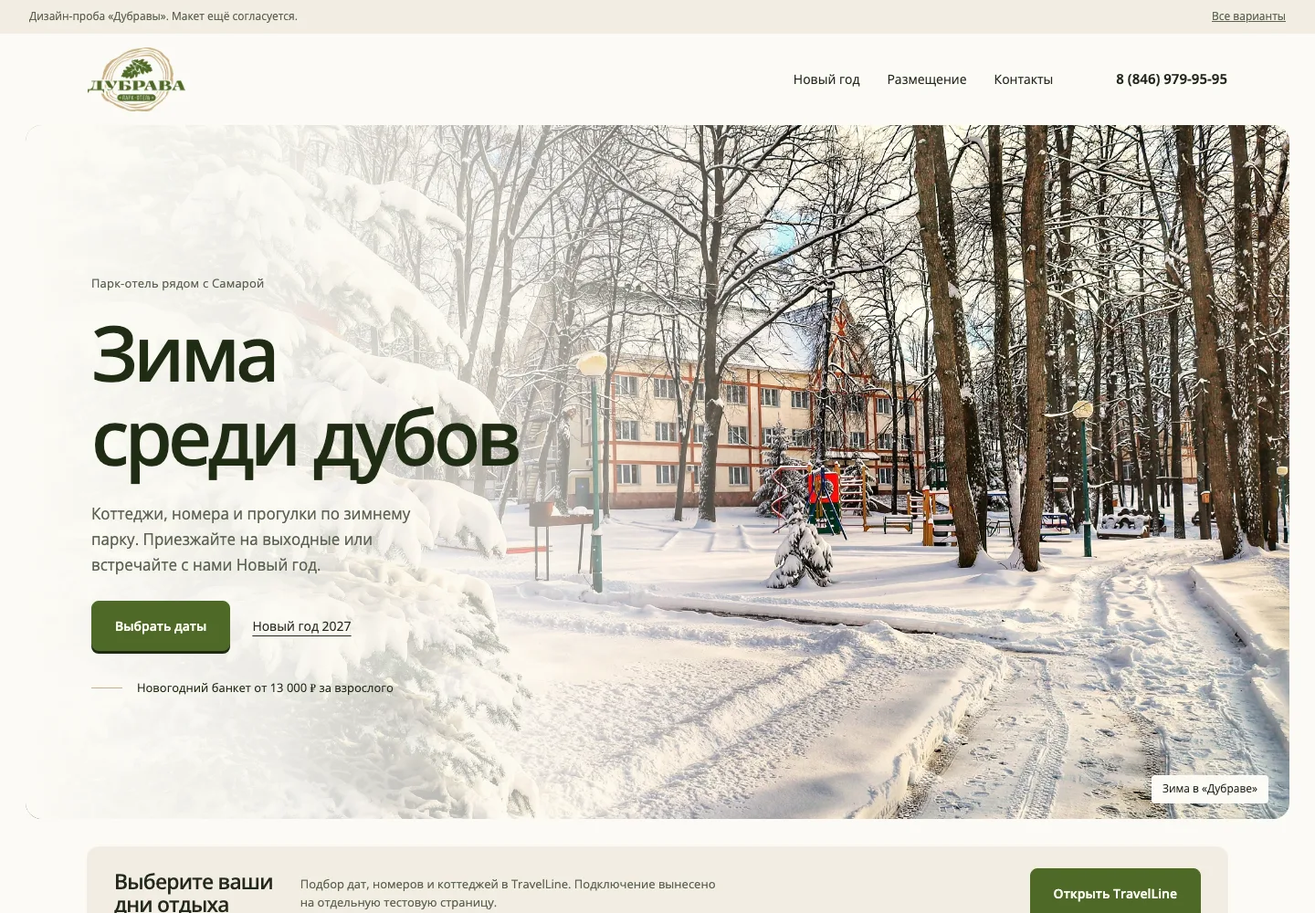
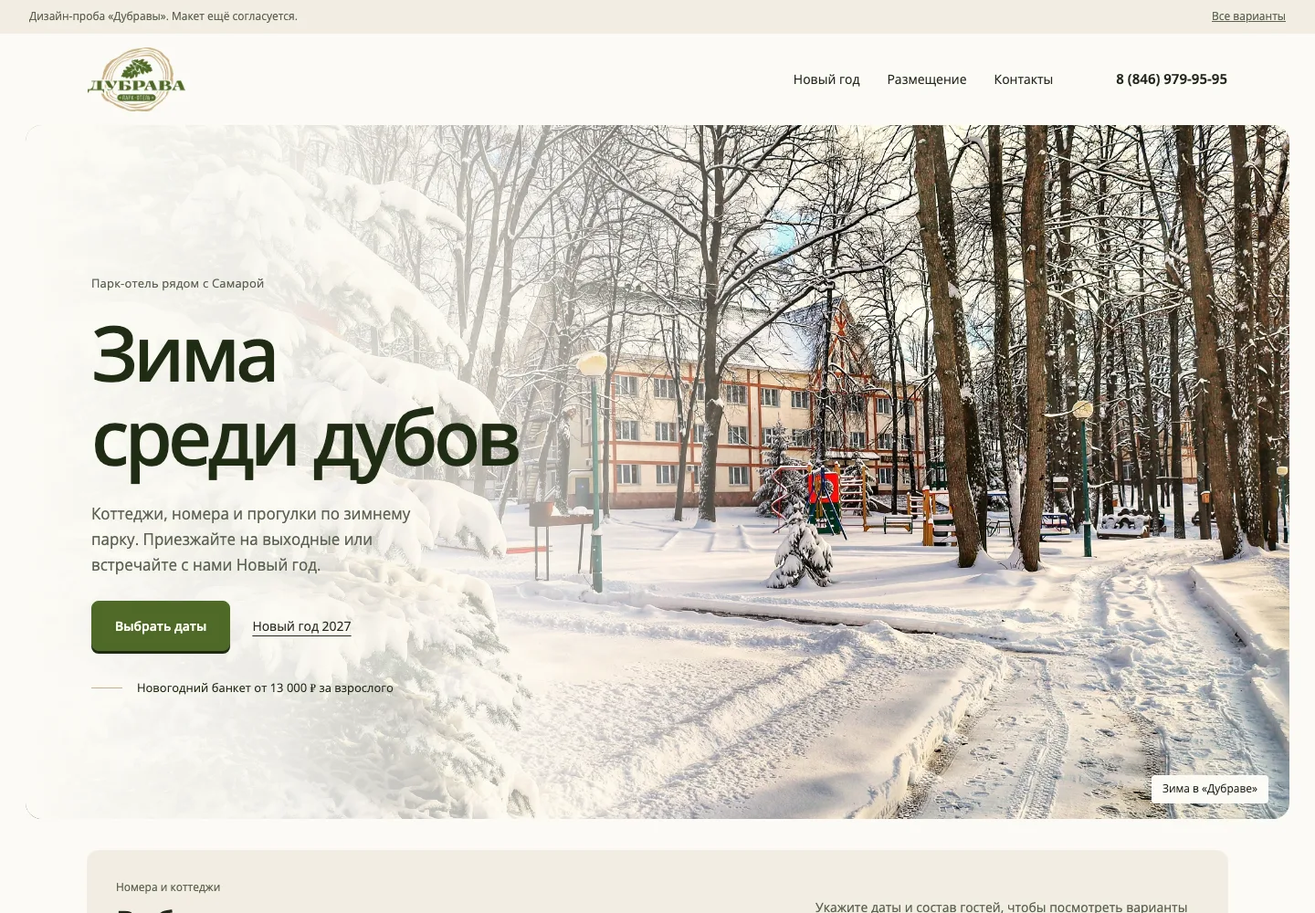
Обновление 10.11 12:59 МСК

Changed region(s): [[0.0625, 0.961, 0.5312, 1.0], [0.625, 0.93, 0.9375, 1.0]]

diff --git a/panorama.html b/panorama.html
@@ -1,1 +1,12 @@
-<!doctype html><html lang="ru"><head><meta charset="utf-8"><meta name="viewport" content="width=device-width, initial-scale=1"><meta name="robots" content="noindex, nofollow, noarchive"><title>Дубрава · Панорама · прототип</title><link rel="stylesheet" href="style.css"></head><body class="panorama"><div class="draft"><span>Дизайн-проба «Дубравы». Макет ещё согласуется.</span><a href="index.html">Все варианты</a></div><header class="header wrap"><a href="index.html" aria-label="Выбор оформления"><img class="logo" src="assets/logo.png" alt="Парк-отель Дубрава"></a><nav class="nav"><a href="#new-year">Новый год</a><a href="#stay">Размещение</a><a href="#contact">Контакты</a></nav><a class="tel" href="tel:+78469799595">8 (846) 979-95-95</a></header><main><section class="hero"><img class="hero-photo" src="assets/winter-cover-warm-v1.webp" alt="Заснеженная ель, дорожка и отель Дубрава среди зимних деревьев" fetchpriority="high"><div class="hero-copy"><div class="place">Парк-отель рядом с Самарой</div><h1>Зима<br>среди дубов</h1><p>Коттеджи, номера и прогулки по зимнему парку. Приезжайте на выходные или встречайте с нами Новый год.</p><div class="actions"><a class="button" href="booking/">Выбрать даты</a><a class="link" href="#new-year">Новый год 2027</a></div><a class="season-link" href="#new-year">Новогодний банкет от 13 000 ₽ за взрослого</a></div><span class="photo-label">Зима в «Дубраве»</span></section><section class="booking-strip"><h2>Выберите ваши<br>дни отдыха</h2><p>Подбор дат, номеров и коттеджей в TravelLine. Подключение вынесено на отдельную тестовую страницу.</p><a class="button" href="booking/">Открыть TravelLine</a></section><section id="new-year" class="ny"><div class="ny-date">Новогодняя ночь: 31 декабря 2026 · Заезд: 31 декабря - 2 января</div><div class="ny-title"><h2 class="section-title">Новогодний<br>экспресс 2027</h2><p>Выберите праздничный банкет или оставайтесь с нами на новогодний заезд.</p></div><div class="offers"><article class="offer"><p>Банкет без проживания</p><h3>Зал «Усадьба»</h3><div class="price">13 000 ₽</div><div class="unit">за взрослого · 31 декабря</div><a class="link" href="https://vk.me/parkhoteldubrava" target="_blank" rel="noopener">Обсудить банкет</a></article><article class="offer"><p>Банкет без проживания</p><h3>Основной зал</h3><div class="price">18 000 ₽</div><div class="unit">за взрослого · 31 декабря</div><a class="link" href="https://vk.me/parkhoteldubrava" target="_blank" rel="noopener">Обсудить банкет</a></article><article class="offer"><p>Заезд с проживанием</p><h3>С 31 декабря по 2 января</h3><div class="price">35 000 ₽</div><div class="unit">за взрослого · за весь заезд</div><a class="link" href="https://vk.me/parkhoteldubrava" target="_blank" rel="noopener">Уточнить условия заезда</a></article></div><p class="ny-note">Здесь показана подача предложений. Подробная программа, детские условия, меню и январские каникулы будут добавлены после сверки.</p></section><section class="stay" id="stay"><div class="stay-top"><h2 class="section-title">Загляните<br>в «Дубраву»</h2><p>Настоящие фотографии территории и интерьеров из архива отеля. Категории размещения подпишем после окончательного отбора.</p></div><div class="stay-photos"><figure><img src="assets/winter-park-warm-v1.webp" alt="Зимняя территория Дубравы" loading="lazy"><figcaption>Зимний парк</figcaption></figure><figure><img src="assets/interior-warm-v1.webp" alt="Гостиная коттеджа" loading="lazy"><figcaption>Внутри коттеджа</figcaption></figure><figure><img src="assets/table-warm-v1.webp" alt="Обеденный стол в коттедже Дубравы" loading="lazy"><figcaption>Собраться вместе</figcaption></figure></div></section><details class="structure"><summary>Согласованная структура будущего лендинга</summary><p>Это общий порядок разделов. Полное наполнение и вёрстка остальных экранов ещё согласуются.</p><ol><li>Обложка отеля</li><li>Встроенное бронирование TravelLine</li><li>Новогодний экспресс 2027</li><li>Программа праздников, меню и каникулы</li><li>Номера и коттеджи</li><li>Отдых на территории</li><li>Ресторан и мероприятия</li><li>Фотографии отеля</li><li>Вопросы перед поездкой</li><li>Контакты и маршрут</li></ol></details></main><footer id="contact" class="footer"><p>Прототип оформления. Новогодние цены подтверждены 10.11.2026. Домен отеля пока не меняется.</p><a href="tel:+78469799595">8 (846) 979-95-95</a><a href="https://vk.ru/parkhoteldubrava" target="_blank" rel="noopener">ВКонтакте</a><a href="index.html">Сравнить варианты</a></footer></body></html>
+<!doctype html><html lang="ru"><head><meta charset="utf-8"><meta name="viewport" content="width=device-width, initial-scale=1"><meta name="robots" content="noindex, nofollow, noarchive"><title>Дубрава · Панорама · прототип</title><link rel="stylesheet" href="style.css"></head><body class="panorama"><div class="draft"><span>Дизайн-проба «Дубравы». Макет ещё согласуется.</span><a href="index.html">Все варианты</a></div><header class="header wrap"><a href="index.html" aria-label="Выбор оформления"><img class="logo" src="assets/logo.png" alt="Парк-отель Дубрава"></a><nav class="nav"><a href="#new-year">Новый год</a><a href="#stay">Размещение</a><a href="#contact">Контакты</a></nav><a class="tel" href="tel:+78469799595">8 (846) 979-95-95</a></header><main><section class="hero"><img class="hero-photo" src="assets/winter-cover-warm-v1.webp" alt="Заснеженная ель, дорожка и отель Дубрава среди зимних деревьев" fetchpriority="high"><div class="hero-copy"><div class="place">Парк-отель рядом с Самарой</div><h1>Зима<br>среди дубов</h1><p>Коттеджи, номера и прогулки по зимнему парку. Приезжайте на выходные или встречайте с нами Новый год.</p><div class="actions"><a class="button" href="#booking">Выбрать даты</a><a class="link" href="#new-year">Новый год 2027</a></div><a class="season-link" href="#new-year">Новогодний банкет от 13 000 ₽ за взрослого</a></div><span class="photo-label">Зима в «Дубраве»</span></section><section id="booking" class="booking-section" aria-labelledby="booking-title">
+  <div class="booking-heading">
+    <div><p class="booking-eyebrow">Номера и коттеджи</p><h2 id="booking-title">Выберите даты отдыха</h2></div>
+    <p>Укажите даты и состав гостей, чтобы посмотреть варианты размещения и условия проживания.</p>
+  </div>
+  <div class="booking-widget">
+    <div id="tl-search-form" aria-label="Поиск проживания в парк-отеле Дубрава"></div>
+    <noscript><p>Для поиска дат включите JavaScript или позвоните нам: <a href="tel:+78469799595">8 (846) 979-95-95</a>.</p></noscript>
+  </div>
+  <div class="booking-bottom"><p>Поможем выбрать номер или коттедж: <a href="tel:+78469799595">8 (846) 979-95-95</a></p><a href="booking/" class="link">Открыть полную форму бронирования</a></div>
+</section>
+<section id="new-year" class="ny"><div class="ny-date">Новогодняя ночь: 31 декабря 2026 · Заезд: 31 декабря - 2 января</div><div class="ny-title"><h2 class="section-title">Новогодний<br>экспресс 2027</h2><p>Выберите праздничный банкет или оставайтесь с нами на новогодний заезд.</p></div><div class="offers"><article class="offer"><p>Банкет без проживания</p><h3>Зал «Усадьба»</h3><div class="price">13 000 ₽</div><div class="unit">за взрослого · 31 декабря</div><a class="link" href="https://vk.me/parkhoteldubrava" target="_blank" rel="noopener">Обсудить банкет</a></article><article class="offer"><p>Банкет без проживания</p><h3>Основной зал</h3><div class="price">18 000 ₽</div><div class="unit">за взрослого · 31 декабря</div><a class="link" href="https://vk.me/parkhoteldubrava" target="_blank" rel="noopener">Обсудить банкет</a></article><article class="offer"><p>Заезд с проживанием</p><h3>С 31 декабря по 2 января</h3><div class="price">35 000 ₽</div><div class="unit">за взрослого · за весь заезд</div><a class="link" href="https://vk.me/parkhoteldubrava" target="_blank" rel="noopener">Уточнить условия заезда</a></article></div><p class="ny-note">Здесь показана подача предложений. Подробная программа, детские условия, меню и январские каникулы будут добавлены после сверки.</p></section><section class="stay" id="stay"><div class="stay-top"><h2 class="section-title">Загляните<br>в «Дубраву»</h2><p>Настоящие фотографии территории и интерьеров из архива отеля. Категории размещения подпишем после окончательного отбора.</p></div><div class="stay-photos"><figure><img src="assets/winter-park-warm-v1.webp" alt="Зимняя территория Дубравы" loading="lazy"><figcaption>Зимний парк</figcaption></figure><figure><img src="assets/interior-warm-v1.webp" alt="Гостиная коттеджа" loading="lazy"><figcaption>Внутри коттеджа</figcaption></figure><figure><img src="assets/table-warm-v1.webp" alt="Обеденный стол в коттедже Дубравы" loading="lazy"><figcaption>Собраться вместе</figcaption></figure></div></section><details class="structure"><summary>Согласованная структура будущего лендинга</summary><p>Это общий порядок разделов. Полное наполнение и вёрстка остальных экранов ещё согласуются.</p><ol><li>Обложка отеля</li><li>Встроенное бронирование TravelLine</li><li>Новогодний экспресс 2027</li><li>Программа праздников, меню и каникулы</li><li>Номера и коттеджи</li><li>Территория отеля и карта территории</li><li>Русская баня, хамам и сауна</li><li>Ресторан и меню ресторана</li><li>Фотографии отеля</li><li>Вопросы перед поездкой</li><li>Как добраться: карта проезда, маршрут и контакты</li></ol></details></main><footer id="contact" class="footer"><p>Прототип оформления. Новогодние цены подтверждены 10.11.2026. Домен отеля пока не меняется.</p><a href="tel:+78469799595">8 (846) 979-95-95</a><a href="https://vk.ru/parkhoteldubrava" target="_blank" rel="noopener">ВКонтакте</a><a href="index.html">Сравнить варианты</a></footer><script src="booking/search.js"></script></body></html>

diff --git a/photo-story.html b/photo-story.html
@@ -1,1 +1,1 @@
-<!doctype html><html lang="ru"><head><meta charset="utf-8"><meta name="viewport" content="width=device-width, initial-scale=1"><meta name="robots" content="noindex, nofollow, noarchive"><title>Дубрава · Фотоистория · прототип</title><link rel="stylesheet" href="style.css"></head><body class="photo-story"><div class="draft"><span>Дизайн-проба «Дубравы». Макет ещё согласуется.</span><a href="index.html">Все варианты</a></div><header class="header wrap"><a href="index.html" aria-label="Выбор оформления"><img class="logo" src="assets/logo.png" alt="Парк-отель Дубрава"></a><nav class="nav"><a href="#new-year">Новый год</a><a href="#stay">Размещение</a><a href="#contact">Контакты</a></nav><a class="tel" href="tel:+78469799595">8 (846) 979-95-95</a></header><main><section class="hero"><div class="hero-copy"><div class="place">Парк-отель рядом с Самарой</div><h1>Зима<br>среди дубов</h1><p>Коттеджи, номера и прогулки по зимнему парку. Приезжайте на выходные или встречайте с нами Новый год.</p><div class="actions"><a class="button" href="booking/">Выбрать даты</a><a class="link" href="#new-year">Новый год 2027</a></div><a class="season-link" href="#new-year">Новогодний банкет от 13 000 ₽ за взрослого</a></div><figure class="main-shot"><img src="assets/winter-house-warm-v1.webp" alt="Коттедж Дубравы среди заснеженных деревьев" fetchpriority="high"><figcaption class="photo-label">Остаться на выходные</figcaption></figure><figure class="small-shot"><img src="assets/interior-warm-v1.webp" alt="Интерьер коттеджа Дубравы"></figure><figure class="small-shot"><img src="assets/winter-park-warm-v1.webp" alt="Деревья и коттеджи зимней Дубравы"></figure></section><section class="booking-strip"><h2>Выберите ваши<br>дни отдыха</h2><p>Подбор дат, номеров и коттеджей в TravelLine. Подключение вынесено на отдельную тестовую страницу.</p><a class="button" href="booking/">Открыть TravelLine</a></section><section id="new-year" class="ny"><div class="ny-date">Новогодняя ночь: 31 декабря 2026 · Заезд: 31 декабря - 2 января</div><div class="ny-title"><h2 class="section-title">Новогодний<br>экспресс 2027</h2><p>Выберите праздничный банкет или оставайтесь с нами на новогодний заезд.</p></div><div class="offers"><article class="offer"><p>Банкет без проживания</p><h3>Зал «Усадьба»</h3><div class="price">13 000 ₽</div><div class="unit">за взрослого · 31 декабря</div><a class="link" href="https://vk.me/parkhoteldubrava" target="_blank" rel="noopener">Обсудить банкет</a></article><article class="offer"><p>Банкет без проживания</p><h3>Основной зал</h3><div class="price">18 000 ₽</div><div class="unit">за взрослого · 31 декабря</div><a class="link" href="https://vk.me/parkhoteldubrava" target="_blank" rel="noopener">Обсудить банкет</a></article><article class="offer"><p>Заезд с проживанием</p><h3>С 31 декабря по 2 января</h3><div class="price">35 000 ₽</div><div class="unit">за взрослого · за весь заезд</div><a class="link" href="https://vk.me/parkhoteldubrava" target="_blank" rel="noopener">Уточнить условия заезда</a></article></div><p class="ny-note">Здесь показана подача предложений. Подробная программа, детские условия, меню и январские каникулы будут добавлены после сверки.</p></section><section class="stay" id="stay"><div class="stay-top"><h2 class="section-title">Загляните<br>в «Дубраву»</h2><p>Настоящие фотографии территории и интерьеров из архива отеля. Категории размещения подпишем после окончательного отбора.</p></div><div class="stay-photos"><figure><img src="assets/winter-park-warm-v1.webp" alt="Зимняя территория Дубравы" loading="lazy"><figcaption>Зимний парк</figcaption></figure><figure><img src="assets/interior-warm-v1.webp" alt="Гостиная коттеджа" loading="lazy"><figcaption>Внутри коттеджа</figcaption></figure><figure><img src="assets/table-warm-v1.webp" alt="Обеденный стол в коттедже Дубравы" loading="lazy"><figcaption>Собраться вместе</figcaption></figure></div></section><details class="structure"><summary>Согласованная структура будущего лендинга</summary><p>Это общий порядок разделов. Полное наполнение и вёрстка остальных экранов ещё согласуются.</p><ol><li>Обложка отеля</li><li>Встроенное бронирование TravelLine</li><li>Новогодний экспресс 2027</li><li>Программа праздников, меню и каникулы</li><li>Номера и коттеджи</li><li>Отдых на территории</li><li>Ресторан и мероприятия</li><li>Фотографии отеля</li><li>Вопросы перед поездкой</li><li>Контакты и маршрут</li></ol></details></main><footer id="contact" class="footer"><p>Прототип оформления. Новогодние цены подтверждены 10.11.2026. Домен отеля пока не меняется.</p><a href="tel:+78469799595">8 (846) 979-95-95</a><a href="https://vk.ru/parkhoteldubrava" target="_blank" rel="noopener">ВКонтакте</a><a href="index.html">Сравнить варианты</a></footer></body></html>
+<!doctype html><html lang="ru"><head><meta charset="utf-8"><meta name="viewport" content="width=device-width, initial-scale=1"><meta name="robots" content="noindex, nofollow, noarchive"><title>Дубрава · Фотоистория · прототип</title><link rel="stylesheet" href="style.css"></head><body class="photo-story"><div class="draft"><span>Дизайн-проба «Дубравы». Макет ещё согласуется.</span><a href="index.html">Все варианты</a></div><header class="header wrap"><a href="index.html" aria-label="Выбор оформления"><img class="logo" src="assets/logo.png" alt="Парк-отель Дубрава"></a><nav class="nav"><a href="#new-year">Новый год</a><a href="#stay">Размещение</a><a href="#contact">Контакты</a></nav><a class="tel" href="tel:+78469799595">8 (846) 979-95-95</a></header><main><section class="hero"><div class="hero-copy"><div class="place">Парк-отель рядом с Самарой</div><h1>Зима<br>среди дубов</h1><p>Коттеджи, номера и прогулки по зимнему парку. Приезжайте на выходные или встречайте с нами Новый год.</p><div class="actions"><a class="button" href="booking/">Выбрать даты</a><a class="link" href="#new-year">Новый год 2027</a></div><a class="season-link" href="#new-year">Новогодний банкет от 13 000 ₽ за взрослого</a></div><figure class="main-shot"><img src="assets/winter-house-warm-v1.webp" alt="Коттедж Дубравы среди заснеженных деревьев" fetchpriority="high"><figcaption class="photo-label">Остаться на выходные</figcaption></figure><figure class="small-shot"><img src="assets/interior-warm-v1.webp" alt="Интерьер коттеджа Дубравы"></figure><figure class="small-shot"><img src="assets/winter-park-warm-v1.webp" alt="Деревья и коттеджи зимней Дубравы"></figure></section><section class="booking-strip"><h2>Выберите ваши<br>дни отдыха</h2><p>Подбор дат, номеров и коттеджей в TravelLine. Подключение вынесено на отдельную тестовую страницу.</p><a class="button" href="booking/">Открыть TravelLine</a></section><section id="new-year" class="ny"><div class="ny-date">Новогодняя ночь: 31 декабря 2026 · Заезд: 31 декабря - 2 января</div><div class="ny-title"><h2 class="section-title">Новогодний<br>экспресс 2027</h2><p>Выберите праздничный банкет или оставайтесь с нами на новогодний заезд.</p></div><div class="offers"><article class="offer"><p>Банкет без проживания</p><h3>Зал «Усадьба»</h3><div class="price">13 000 ₽</div><div class="unit">за взрослого · 31 декабря</div><a class="link" href="https://vk.me/parkhoteldubrava" target="_blank" rel="noopener">Обсудить банкет</a></article><article class="offer"><p>Банкет без проживания</p><h3>Основной зал</h3><div class="price">18 000 ₽</div><div class="unit">за взрослого · 31 декабря</div><a class="link" href="https://vk.me/parkhoteldubrava" target="_blank" rel="noopener">Обсудить банкет</a></article><article class="offer"><p>Заезд с проживанием</p><h3>С 31 декабря по 2 января</h3><div class="price">35 000 ₽</div><div class="unit">за взрослого · за весь заезд</div><a class="link" href="https://vk.me/parkhoteldubrava" target="_blank" rel="noopener">Уточнить условия заезда</a></article></div><p class="ny-note">Здесь показана подача предложений. Подробная программа, детские условия, меню и январские каникулы будут добавлены после сверки.</p></section><section class="stay" id="stay"><div class="stay-top"><h2 class="section-title">Загляните<br>в «Дубраву»</h2><p>Настоящие фотографии территории и интерьеров из архива отеля. Категории размещения подпишем после окончательного отбора.</p></div><div class="stay-photos"><figure><img src="assets/winter-park-warm-v1.webp" alt="Зимняя территория Дубравы" loading="lazy"><figcaption>Зимний парк</figcaption></figure><figure><img src="assets/interior-warm-v1.webp" alt="Гостиная коттеджа" loading="lazy"><figcaption>Внутри коттеджа</figcaption></figure><figure><img src="assets/table-warm-v1.webp" alt="Обеденный стол в коттедже Дубравы" loading="lazy"><figcaption>Собраться вместе</figcaption></figure></div></section><details class="structure"><summary>Согласованная структура будущего лендинга</summary><p>Это общий порядок разделов. Полное наполнение и вёрстка остальных экранов ещё согласуются.</p><ol><li>Обложка отеля</li><li>Встроенное бронирование TravelLine</li><li>Новогодний экспресс 2027</li><li>Программа праздников, меню и каникулы</li><li>Номера и коттеджи</li><li>Территория отеля и карта территории</li><li>Русская баня, хамам и сауна</li><li>Ресторан и меню ресторана</li><li>Фотографии отеля</li><li>Вопросы перед поездкой</li><li>Как добраться: карта проезда, маршрут и контакты</li></ol></details></main><footer id="contact" class="footer"><p>Прототип оформления. Новогодние цены подтверждены 10.11.2026. Домен отеля пока не меняется.</p><a href="tel:+78469799595">8 (846) 979-95-95</a><a href="https://vk.ru/parkhoteldubrava" target="_blank" rel="noopener">ВКонтакте</a><a href="index.html">Сравнить варианты</a></footer></body></html>

diff --git a/editorial.html b/editorial.html
@@ -1,1 +1,1 @@
-<!doctype html><html lang="ru"><head><meta charset="utf-8"><meta name="viewport" content="width=device-width, initial-scale=1"><meta name="robots" content="noindex, nofollow, noarchive"><title>Дубрава · Журнальная композиция · прототип</title><link rel="stylesheet" href="style.css"></head><body class="editorial"><div class="draft"><span>Дизайн-проба «Дубравы». Макет ещё согласуется.</span><a href="index.html">Все варианты</a></div><header class="header wrap"><a href="index.html" aria-label="Выбор оформления"><img class="logo" src="assets/logo.png" alt="Парк-отель Дубрава"></a><nav class="nav"><a href="#new-year">Новый год</a><a href="#stay">Размещение</a><a href="#contact">Контакты</a></nav><a class="tel" href="tel:+78469799595">8 (846) 979-95-95</a></header><main><section class="hero"><div class="hotel-word" aria-hidden="true">Дубрава</div><div class="spread"><figure class="main-shot"><img src="assets/winter-house-warm-v1.webp" alt="Настоящий зимний коттедж Дубравы" fetchpriority="high"></figure><div class="hero-copy"><div class="place">Парк-отель рядом с Самарой</div><h1>Зима<br>среди дубов</h1><p>Коттеджи, номера и прогулки по зимнему парку. Приезжайте на выходные или встречайте с нами Новый год.</p><div class="actions"><a class="button" href="booking/">Выбрать даты</a><a class="link" href="#new-year">Новый год 2027</a></div><a class="season-link" href="#new-year">Новогодний банкет от 13 000 ₽ за взрослого</a></div><figure class="detail-shot"><img src="assets/winter-park-warm-v1.webp" alt="Солнце между деревьями зимнего парка"><figcaption>Зимние дни<br>в «Дубраве»</figcaption></figure></div></section><section class="booking-strip"><h2>Выберите ваши<br>дни отдыха</h2><p>Подбор дат, номеров и коттеджей в TravelLine. Подключение вынесено на отдельную тестовую страницу.</p><a class="button" href="booking/">Открыть TravelLine</a></section><section id="new-year" class="ny"><div class="ny-date">Новогодняя ночь: 31 декабря 2026 · Заезд: 31 декабря - 2 января</div><div class="ny-title"><h2 class="section-title">Новогодний<br>экспресс 2027</h2><p>Выберите праздничный банкет или оставайтесь с нами на новогодний заезд.</p></div><div class="offers"><article class="offer"><p>Банкет без проживания</p><h3>Зал «Усадьба»</h3><div class="price">13 000 ₽</div><div class="unit">за взрослого · 31 декабря</div><a class="link" href="https://vk.me/parkhoteldubrava" target="_blank" rel="noopener">Обсудить банкет</a></article><article class="offer"><p>Банкет без проживания</p><h3>Основной зал</h3><div class="price">18 000 ₽</div><div class="unit">за взрослого · 31 декабря</div><a class="link" href="https://vk.me/parkhoteldubrava" target="_blank" rel="noopener">Обсудить банкет</a></article><article class="offer"><p>Заезд с проживанием</p><h3>С 31 декабря по 2 января</h3><div class="price">35 000 ₽</div><div class="unit">за взрослого · за весь заезд</div><a class="link" href="https://vk.me/parkhoteldubrava" target="_blank" rel="noopener">Уточнить условия заезда</a></article></div><p class="ny-note">Здесь показана подача предложений. Подробная программа, детские условия, меню и январские каникулы будут добавлены после сверки.</p></section><section class="stay" id="stay"><div class="stay-top"><h2 class="section-title">Загляните<br>в «Дубраву»</h2><p>Настоящие фотографии территории и интерьеров из архива отеля. Категории размещения подпишем после окончательного отбора.</p></div><div class="stay-photos"><figure><img src="assets/winter-park-warm-v1.webp" alt="Зимняя территория Дубравы" loading="lazy"><figcaption>Зимний парк</figcaption></figure><figure><img src="assets/interior-warm-v1.webp" alt="Гостиная коттеджа" loading="lazy"><figcaption>Внутри коттеджа</figcaption></figure><figure><img src="assets/table-warm-v1.webp" alt="Обеденный стол в коттедже Дубравы" loading="lazy"><figcaption>Собраться вместе</figcaption></figure></div></section><details class="structure"><summary>Согласованная структура будущего лендинга</summary><p>Это общий порядок разделов. Полное наполнение и вёрстка остальных экранов ещё согласуются.</p><ol><li>Обложка отеля</li><li>Встроенное бронирование TravelLine</li><li>Новогодний экспресс 2027</li><li>Программа праздников, меню и каникулы</li><li>Номера и коттеджи</li><li>Отдых на территории</li><li>Ресторан и мероприятия</li><li>Фотографии отеля</li><li>Вопросы перед поездкой</li><li>Контакты и маршрут</li></ol></details></main><footer id="contact" class="footer"><p>Прототип оформления. Новогодние цены подтверждены 10.11.2026. Домен отеля пока не меняется.</p><a href="tel:+78469799595">8 (846) 979-95-95</a><a href="https://vk.ru/parkhoteldubrava" target="_blank" rel="noopener">ВКонтакте</a><a href="index.html">Сравнить варианты</a></footer></body></html>
+<!doctype html><html lang="ru"><head><meta charset="utf-8"><meta name="viewport" content="width=device-width, initial-scale=1"><meta name="robots" content="noindex, nofollow, noarchive"><title>Дубрава · Журнальная композиция · прототип</title><link rel="stylesheet" href="style.css"></head><body class="editorial"><div class="draft"><span>Дизайн-проба «Дубравы». Макет ещё согласуется.</span><a href="index.html">Все варианты</a></div><header class="header wrap"><a href="index.html" aria-label="Выбор оформления"><img class="logo" src="assets/logo.png" alt="Парк-отель Дубрава"></a><nav class="nav"><a href="#new-year">Новый год</a><a href="#stay">Размещение</a><a href="#contact">Контакты</a></nav><a class="tel" href="tel:+78469799595">8 (846) 979-95-95</a></header><main><section class="hero"><div class="hotel-word" aria-hidden="true">Дубрава</div><div class="spread"><figure class="main-shot"><img src="assets/winter-house-warm-v1.webp" alt="Настоящий зимний коттедж Дубравы" fetchpriority="high"></figure><div class="hero-copy"><div class="place">Парк-отель рядом с Самарой</div><h1>Зима<br>среди дубов</h1><p>Коттеджи, номера и прогулки по зимнему парку. Приезжайте на выходные или встречайте с нами Новый год.</p><div class="actions"><a class="button" href="booking/">Выбрать даты</a><a class="link" href="#new-year">Новый год 2027</a></div><a class="season-link" href="#new-year">Новогодний банкет от 13 000 ₽ за взрослого</a></div><figure class="detail-shot"><img src="assets/winter-park-warm-v1.webp" alt="Солнце между деревьями зимнего парка"><figcaption>Зимние дни<br>в «Дубраве»</figcaption></figure></div></section><section class="booking-strip"><h2>Выберите ваши<br>дни отдыха</h2><p>Подбор дат, номеров и коттеджей в TravelLine. Подключение вынесено на отдельную тестовую страницу.</p><a class="button" href="booking/">Открыть TravelLine</a></section><section id="new-year" class="ny"><div class="ny-date">Новогодняя ночь: 31 декабря 2026 · Заезд: 31 декабря - 2 января</div><div class="ny-title"><h2 class="section-title">Новогодний<br>экспресс 2027</h2><p>Выберите праздничный банкет или оставайтесь с нами на новогодний заезд.</p></div><div class="offers"><article class="offer"><p>Банкет без проживания</p><h3>Зал «Усадьба»</h3><div class="price">13 000 ₽</div><div class="unit">за взрослого · 31 декабря</div><a class="link" href="https://vk.me/parkhoteldubrava" target="_blank" rel="noopener">Обсудить банкет</a></article><article class="offer"><p>Банкет без проживания</p><h3>Основной зал</h3><div class="price">18 000 ₽</div><div class="unit">за взрослого · 31 декабря</div><a class="link" href="https://vk.me/parkhoteldubrava" target="_blank" rel="noopener">Обсудить банкет</a></article><article class="offer"><p>Заезд с проживанием</p><h3>С 31 декабря по 2 января</h3><div class="price">35 000 ₽</div><div class="unit">за взрослого · за весь заезд</div><a class="link" href="https://vk.me/parkhoteldubrava" target="_blank" rel="noopener">Уточнить условия заезда</a></article></div><p class="ny-note">Здесь показана подача предложений. Подробная программа, детские условия, меню и январские каникулы будут добавлены после сверки.</p></section><section class="stay" id="stay"><div class="stay-top"><h2 class="section-title">Загляните<br>в «Дубраву»</h2><p>Настоящие фотографии территории и интерьеров из архива отеля. Категории размещения подпишем после окончательного отбора.</p></div><div class="stay-photos"><figure><img src="assets/winter-park-warm-v1.webp" alt="Зимняя территория Дубравы" loading="lazy"><figcaption>Зимний парк</figcaption></figure><figure><img src="assets/interior-warm-v1.webp" alt="Гостиная коттеджа" loading="lazy"><figcaption>Внутри коттеджа</figcaption></figure><figure><img src="assets/table-warm-v1.webp" alt="Обеденный стол в коттедже Дубравы" loading="lazy"><figcaption>Собраться вместе</figcaption></figure></div></section><details class="structure"><summary>Согласованная структура будущего лендинга</summary><p>Это общий порядок разделов. Полное наполнение и вёрстка остальных экранов ещё согласуются.</p><ol><li>Обложка отеля</li><li>Встроенное бронирование TravelLine</li><li>Новогодний экспресс 2027</li><li>Программа праздников, меню и каникулы</li><li>Номера и коттеджи</li><li>Территория отеля и карта территории</li><li>Русская баня, хамам и сауна</li><li>Ресторан и меню ресторана</li><li>Фотографии отеля</li><li>Вопросы перед поездкой</li><li>Как добраться: карта проезда, маршрут и контакты</li></ol></details></main><footer id="contact" class="footer"><p>Прототип оформления. Новогодние цены подтверждены 10.11.2026. Домен отеля пока не меняется.</p><a href="tel:+78469799595">8 (846) 979-95-95</a><a href="https://vk.ru/parkhoteldubrava" target="_blank" rel="noopener">ВКонтакте</a><a href="index.html">Сравнить варианты</a></footer></body></html>

diff --git a/index.html b/index.html
@@ -1,1 +1,1 @@
-<!doctype html><html lang="ru"><head><meta charset="utf-8"><meta name="viewport" content="width=device-width, initial-scale=1"><meta name="robots" content="noindex, nofollow, noarchive"><title>Дубрава · выбор оформления прототипа</title><link rel="stylesheet" href="style.css"></head><body><div class="draft"><span>Рабочая страница согласования · 10.11.2026</span><span>Парк-отель «Дубрава»</span></div><main class="review"><h1>Зимняя «Дубрава».<br>Три варианта оформления</h1><p class="lead">Принятые цвета и структура сохранены. Здесь сравниваем композицию и роль фотографий. Во всех вариантах настоящие кадры отеля.</p><div class="status-box"><p><b>Выбрана «Панорама».</b> Заменили главный зимний кадр. Все фотографии обработаны в Контент-студии: тёплый цвет, немного солнечного тепла. Другие варианты оставлены для сравнения.</p></div><div class="review-links"><a class="link" href="booking/">Проверка подключения TravelLine</a><a class="link" href="#page-structure">Структура лендинга</a></div><section class="direction"><div class="direction-head"><div><h2>1. Панорама</h2><p>Выбранный вариант. Новый зимний кадр с заснеженной елью, дорожкой и отелем в глубине. Все фотографии прошли тёплую цветокоррекцию.</p></div><a class="button" href="panorama.html">Открыть вариант</a></div><div class="comparison"><a href="panorama.html"><small>Компьютер · 1440 px</small><img src="assets/panorama-desktop.webp" alt="Панорама: компьютер"></a><a href="panorama.html"><small>Телефон · 390 px</small><img src="assets/panorama-mobile.webp" alt="Панорама: телефон"></a></div></section><section class="direction"><div class="direction-head"><div><h2>2. Фотоистория</h2><p>Крупный зимний кадр, интерьер и детали парка. Фотомозаика из схемы «бенто». Сохранена для сравнения.</p></div><a class="button" href="photo-story.html">Открыть вариант</a></div><div class="comparison"><a href="photo-story.html"><small>Компьютер · 1440 px</small><img src="assets/photo-story-desktop.webp" alt="Фотоистория: компьютер"></a><a href="photo-story.html"><small>Телефон · 390 px</small><img src="assets/photo-story-mobile.webp" alt="Фотоистория: телефон"></a></div></section><section class="direction"><div class="direction-head"><div><h2>3. Журнальная композиция</h2><p>Крупное название, высокий кадр и асимметрия. Приёмы редакционной партитуры и журнального разворота.</p></div><a class="button" href="editorial.html">Открыть вариант</a></div><div class="comparison"><a href="editorial.html"><small>Компьютер · 1440 px</small><img src="assets/editorial-desktop.webp" alt="Журнальная композиция: компьютер"></a><a href="editorial.html"><small>Телефон · 390 px</small><img src="assets/editorial-mobile.webp" alt="Журнальная композиция: телефон"></a></div></section><div id="page-structure"><details class="structure"><summary>Согласованная структура будущего лендинга</summary><p>Это общий порядок разделов. Полное наполнение и вёрстка остальных экранов ещё согласуются.</p><ol><li>Обложка отеля</li><li>Встроенное бронирование TravelLine</li><li>Новогодний экспресс 2027</li><li>Программа праздников, меню и каникулы</li><li>Номера и коттеджи</li><li>Отдых на территории</li><li>Ресторан и мероприятия</li><li>Фотографии отеля</li><li>Вопросы перед поездкой</li><li>Контакты и маршрут</li></ol></details></div></main><footer id="contact" class="footer"><p>Прототип оформления. Новогодние цены подтверждены 10.11.2026. Домен отеля пока не меняется.</p><a href="tel:+78469799595">8 (846) 979-95-95</a><a href="https://vk.ru/parkhoteldubrava" target="_blank" rel="noopener">ВКонтакте</a><a href="index.html">Сравнить варианты</a></footer></body></html>
+<!doctype html><html lang="ru"><head><meta charset="utf-8"><meta name="viewport" content="width=device-width, initial-scale=1"><meta name="robots" content="noindex, nofollow, noarchive"><title>Дубрава · выбор оформления прототипа</title><link rel="stylesheet" href="style.css"></head><body><div class="draft"><span>Рабочая страница согласования · 10.11.2026</span><span>Парк-отель «Дубрава»</span></div><main class="review"><h1>Зимняя «Дубрава».<br>Три варианта оформления</h1><p class="lead">Принятые цвета и структура сохранены. Здесь сравниваем композицию и роль фотографий. Во всех вариантах настоящие кадры отеля.</p><div class="status-box"><p><b>Выбрана «Панорама».</b> Заменили главный зимний кадр. Все фотографии обработаны в Контент-студии: тёплый цвет, немного солнечного тепла. Другие варианты оставлены для сравнения.</p></div><div class="review-links"><a class="link" href="booking/">Проверка подключения TravelLine</a><a class="link" href="#page-structure">Структура лендинга</a></div><section class="direction"><div class="direction-head"><div><h2>1. Панорама</h2><p>Выбранный вариант. Новый зимний кадр с заснеженной елью, дорожкой и отелем в глубине. Все фотографии прошли тёплую цветокоррекцию.</p></div><a class="button" href="panorama.html">Открыть вариант</a></div><div class="comparison"><a href="panorama.html"><small>Компьютер · 1440 px</small><img src="assets/panorama-desktop.webp" alt="Панорама: компьютер"></a><a href="panorama.html"><small>Телефон · 390 px</small><img src="assets/panorama-mobile.webp" alt="Панорама: телефон"></a></div></section><section class="direction"><div class="direction-head"><div><h2>2. Фотоистория</h2><p>Крупный зимний кадр, интерьер и детали парка. Фотомозаика из схемы «бенто». Сохранена для сравнения.</p></div><a class="button" href="photo-story.html">Открыть вариант</a></div><div class="comparison"><a href="photo-story.html"><small>Компьютер · 1440 px</small><img src="assets/photo-story-desktop.webp" alt="Фотоистория: компьютер"></a><a href="photo-story.html"><small>Телефон · 390 px</small><img src="assets/photo-story-mobile.webp" alt="Фотоистория: телефон"></a></div></section><section class="direction"><div class="direction-head"><div><h2>3. Журнальная композиция</h2><p>Крупное название, высокий кадр и асимметрия. Приёмы редакционной партитуры и журнального разворота.</p></div><a class="button" href="editorial.html">Открыть вариант</a></div><div class="comparison"><a href="editorial.html"><small>Компьютер · 1440 px</small><img src="assets/editorial-desktop.webp" alt="Журнальная композиция: компьютер"></a><a href="editorial.html"><small>Телефон · 390 px</small><img src="assets/editorial-mobile.webp" alt="Журнальная композиция: телефон"></a></div></section><div id="page-structure"><details class="structure"><summary>Согласованная структура будущего лендинга</summary><p>Это общий порядок разделов. Полное наполнение и вёрстка остальных экранов ещё согласуются.</p><ol><li>Обложка отеля</li><li>Встроенное бронирование TravelLine</li><li>Новогодний экспресс 2027</li><li>Программа праздников, меню и каникулы</li><li>Номера и коттеджи</li><li>Территория отеля и карта территории</li><li>Русская баня, хамам и сауна</li><li>Ресторан и меню ресторана</li><li>Фотографии отеля</li><li>Вопросы перед поездкой</li><li>Как добраться: карта проезда, маршрут и контакты</li></ol></details></div></main><footer id="contact" class="footer"><p>Прототип оформления. Новогодние цены подтверждены 10.11.2026. Домен отеля пока не меняется.</p><a href="tel:+78469799595">8 (846) 979-95-95</a><a href="https://vk.ru/parkhoteldubrava" target="_blank" rel="noopener">ВКонтакте</a><a href="index.html">Сравнить варианты</a></footer></body></html>

diff --git a/style.css b/style.css
@@ -10,6 +10,18 @@
 .booking-strip{max-width:1250px;margin:30px auto 54px;padding:24px 30px;display:flex;align-items:center;gap:30px;background:var(--cream);border-radius:13px}.booking-strip h2{font-size:23px;letter-spacing:-.035em}.booking-strip p{font-size:13px;color:var(--muted);max-width:470px}.booking-strip .button{margin-left:auto;flex-shrink:0}.ny{padding:58px 36px;background:var(--deep);color:var(--paper);border-radius:20px;max-width:1250px;margin:0 auto}.ny-title{display:flex;justify-content:space-between;align-items:flex-end;gap:40px}.ny-title p{font-size:14px;max-width:290px;color:#e3d5b8}.ny-date{font-size:13px;color:#e3d5b8;margin-bottom:15px}.offers{display:grid;grid-template-columns:repeat(3,1fr);gap:28px;margin-top:38px}.offer{border-top:1px solid #5b6350;padding-top:24px}.offer p{font-size:12px;color:#e3d5b8}.offer h3{font-size:22px;letter-spacing:-.035em;margin:10px 0 22px}.price{font-size:35px;font-weight:500;line-height:1.2;letter-spacing:-.04em}.unit{font-size:12px;color:#e3d5b8;margin-top:6px}.offer .link{display:inline-block;margin-top:23px;color:#e3d5b8}.ny-note{margin-top:32px;font-size:12px;color:#e3d5b8}.stay{padding:80px 36px 55px;max-width:1320px;margin:auto}.stay-top{display:flex;justify-content:space-between;gap:35px;align-items:flex-end;margin-bottom:30px}.stay-top p{font-size:15px;max-width:400px;color:var(--muted)}.stay-photos{display:grid;grid-template-columns:1.1fr .8fr 1fr;gap:18px;height:350px}.stay-photos figure{position:relative;overflow:hidden;border-radius:12px}.stay-photos figure:nth-child(2){margin-top:45px}.stay-photos figure:nth-child(3){margin-bottom:45px}.stay figcaption{position:absolute;bottom:15px;left:16px;background:var(--paper);font-size:12px;padding:7px 11px;border-radius:4px}.structure{max-width:1248px;margin:0 auto 45px;border-top:1px solid var(--line);border-bottom:1px solid var(--line);padding:20px 0}.structure summary{cursor:pointer;font-size:16px;font-weight:600}.structure ol{columns:2;column-gap:55px;font-size:14px;line-height:2.2;padding-left:22px}.structure p{font-size:13px;max-width:780px;color:var(--muted);margin-top:17px}.footer{padding:30px 36px 35px;background:var(--cream);display:flex;align-items:center;justify-content:space-between;gap:22px}.footer p{font-size:12px;color:var(--muted);max-width:430px}.footer a{text-decoration:underline;font-size:14px}
 /* Страница сравнения, не интерфейс отеля. */
 .review{max-width:1320px;margin:auto;padding:45px 32px 65px}.review h1{font-size:clamp(37px,5vw,68px);max-width:820px;line-height:1.1}.review .lead{font-size:17px;color:var(--muted);max-width:780px;margin:22px 0 30px}.review-links{display:flex;gap:20px;flex-wrap:wrap;margin-bottom:45px}.review h2{font-size:30px;margin:0 0 12px}.direction{padding:35px 0;border-top:1px solid var(--line)}.direction-head{display:flex;gap:30px;align-items:flex-start;justify-content:space-between;margin-bottom:25px}.direction-head p{font-size:15px;color:var(--muted);max-width:700px}.comparison{display:grid;grid-template-columns:1fr 215px;gap:24px;align-items:start}.comparison img{height:auto;border:1px solid var(--line);border-radius:9px}.comparison small{display:block;font-size:12px;color:var(--muted);margin-bottom:8px}.comparison a{display:block}.status-box{border-left:3px solid var(--green);padding:15px 22px;margin:15px 0 30px;background:var(--cream)}.status-box p{font-size:14px;line-height:1.7}.booking-page{padding:35px;max-width:1320px;margin:auto}.booking-page h1{font-size:38px;margin:20px 0}.booking-page p{max-width:850px;font-size:15px;color:var(--muted)}#tl-booking-form{min-height:600px;margin-top:30px}.booking-help{margin:20px 0;font-size:14px}.booking-help a{text-decoration:underline}
+#booking{max-width:1250px;margin:34px auto 54px;padding:32px;background:var(--cream);border-radius:13px}
+#booking .booking-heading{display:flex;align-items:flex-end;justify-content:space-between;gap:32px;margin-bottom:22px}
+#booking .booking-eyebrow{font-size:12px;color:var(--muted);margin-bottom:10px}
+#booking h2{font-size:32px;letter-spacing:-.04em}
+#booking .booking-heading>p{max-width:420px;font-size:14px;color:var(--muted)}
+#booking .booking-widget{background:var(--green);border-radius:8px;padding:12px}
+#booking #tl-search-form{min-height:110px}
+#booking .booking-bottom{display:flex;justify-content:space-between;gap:22px;align-items:center;margin-top:18px;font-size:12px;color:var(--muted)}
+#booking .booking-bottom p a{white-space:nowrap;text-decoration:underline;text-underline-offset:3px}
+#booking .booking-bottom .link{font-size:12px}
+@media(max-width:1300px){#booking{margin-left:28px;margin-right:28px}}
+@media(max-width:600px){#booking{margin:20px 14px 35px;padding:25px 18px}#booking .booking-heading{display:block;margin-bottom:18px}#booking h2{font-size:28px;line-height:1.15}#booking .booking-heading>p{font-size:14px;margin-top:15px}#booking .booking-widget{padding:10px 5px}#booking #tl-search-form{min-height:220px}#booking .booking-bottom{display:block;line-height:1.7}#booking .booking-bottom .link{display:inline-block;margin-top:12px}}
 @keyframes breathe{0%,100%{box-shadow:0 3px 0 var(--deep),0 0 0 0 #4e6a2700}50%{box-shadow:0 3px 0 var(--deep),0 0 18px 2px #4e6a2720}}@keyframes glint{0%,70%{transform:translateX(-100%)}100%{transform:translateX(100%)}}
 @media(prefers-reduced-motion:reduce){html{scroll-behavior:auto}.button{transition:none;animation-duration:8s}.button::after{animation-duration:14s}}
 @media(max-width:600px){.photo-story .main-shot img{object-position:40% 50%}}

diff --git a/booking/search.js b/booking/search.js
@@ -1,0 +1,40 @@
+(function(w) {
+  'use strict';
+  var options = {
+    providers: [['21872']],
+    container: 'tl-search-form',
+    adults: '2',
+    language: 'ru',
+    nights: 1,
+    onsubmit: function(params, url) {
+      var destination = new URL('booking/', w.location.href);
+      destination.search = new URL(url, w.location.href).search;
+      return destination.href;
+    },
+    oncomplete: function() {
+      var frame = document.querySelector('#tl-search-form iframe');
+      if (!frame) return;
+      frame.title = 'Выбор дат и гостей: TravelLine, парк-отель Дубрава';
+    }
+  };
+  var q = [['setContext', 'TL-EXPRESS.express-new-aa', 'ru'], ['embed', 'search-form', options]];
+  var hosts = ['ru-ibe.tlintegration.ru', 'ibe.tlintegration.ru', 'ibe.tlintegration.com'];
+  var t = w.travelline = w.travelline || {};
+  var ti = t.integration = t.integration || {};
+  ti.__cq = ti.__cq ? ti.__cq.concat(q) : q;
+  if (ti.__loader) return;
+  ti.__loader = true;
+  (function next(list) {
+    if (!list.length) return;
+    var script = document.createElement('script');
+    script.async = true;
+    script.src = 'https://' + list[0] + '/integration/loader.js';
+    script.onerror = script.onload = function() {
+      if (!w.TL) {
+        script.remove();
+        next(list.slice(1));
+      }
+    };
+    document.head.appendChild(script);
+  })(hosts);
+})(window);
